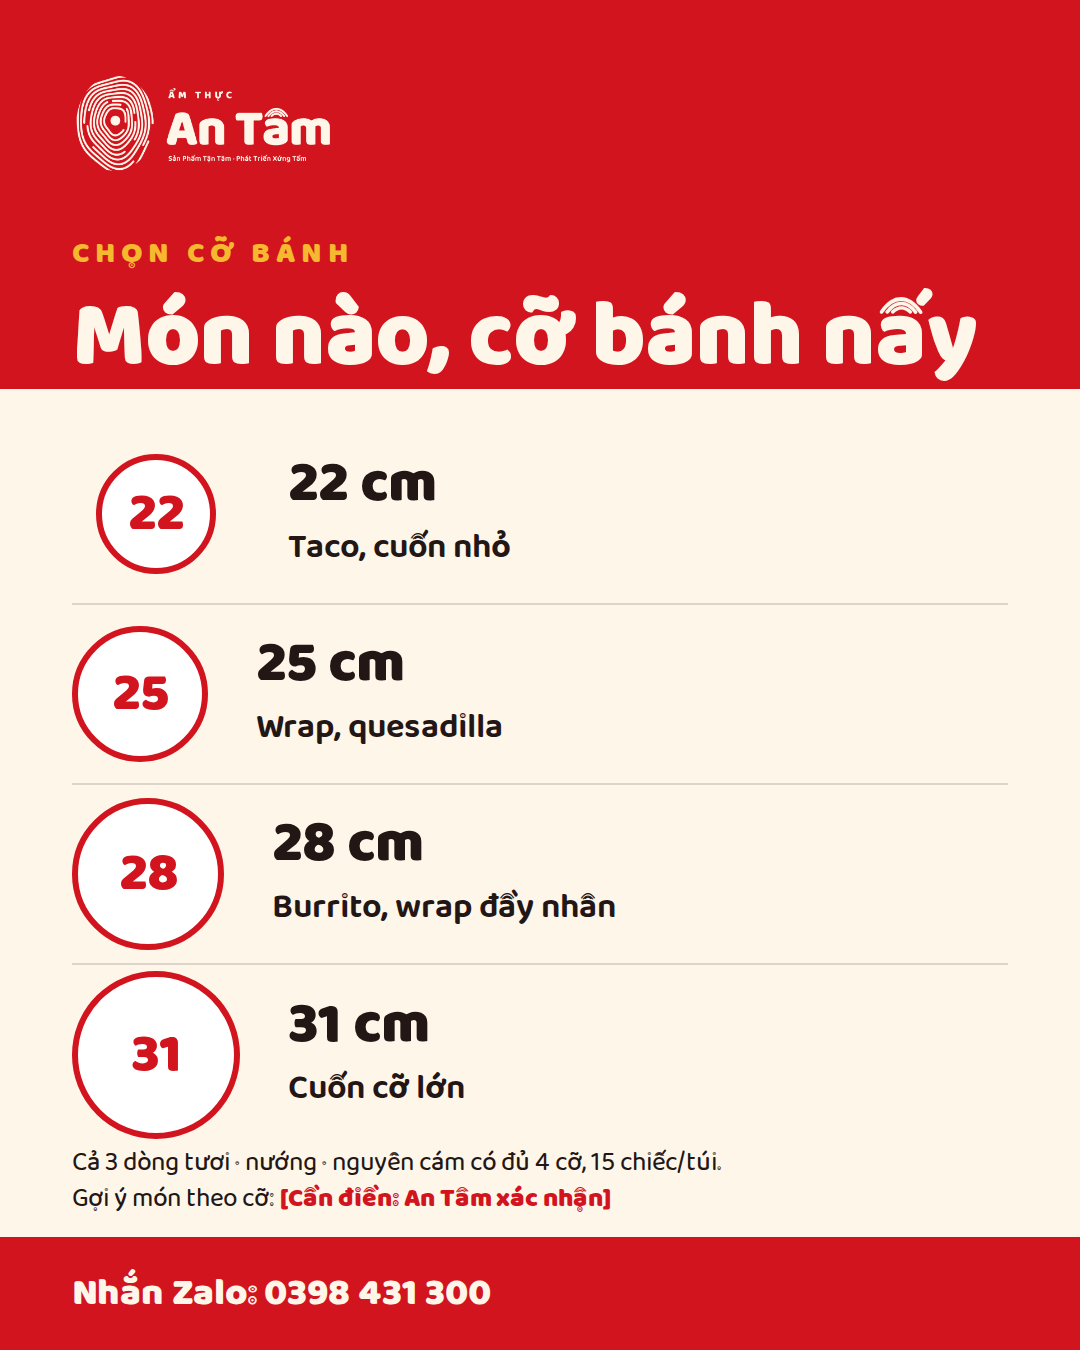
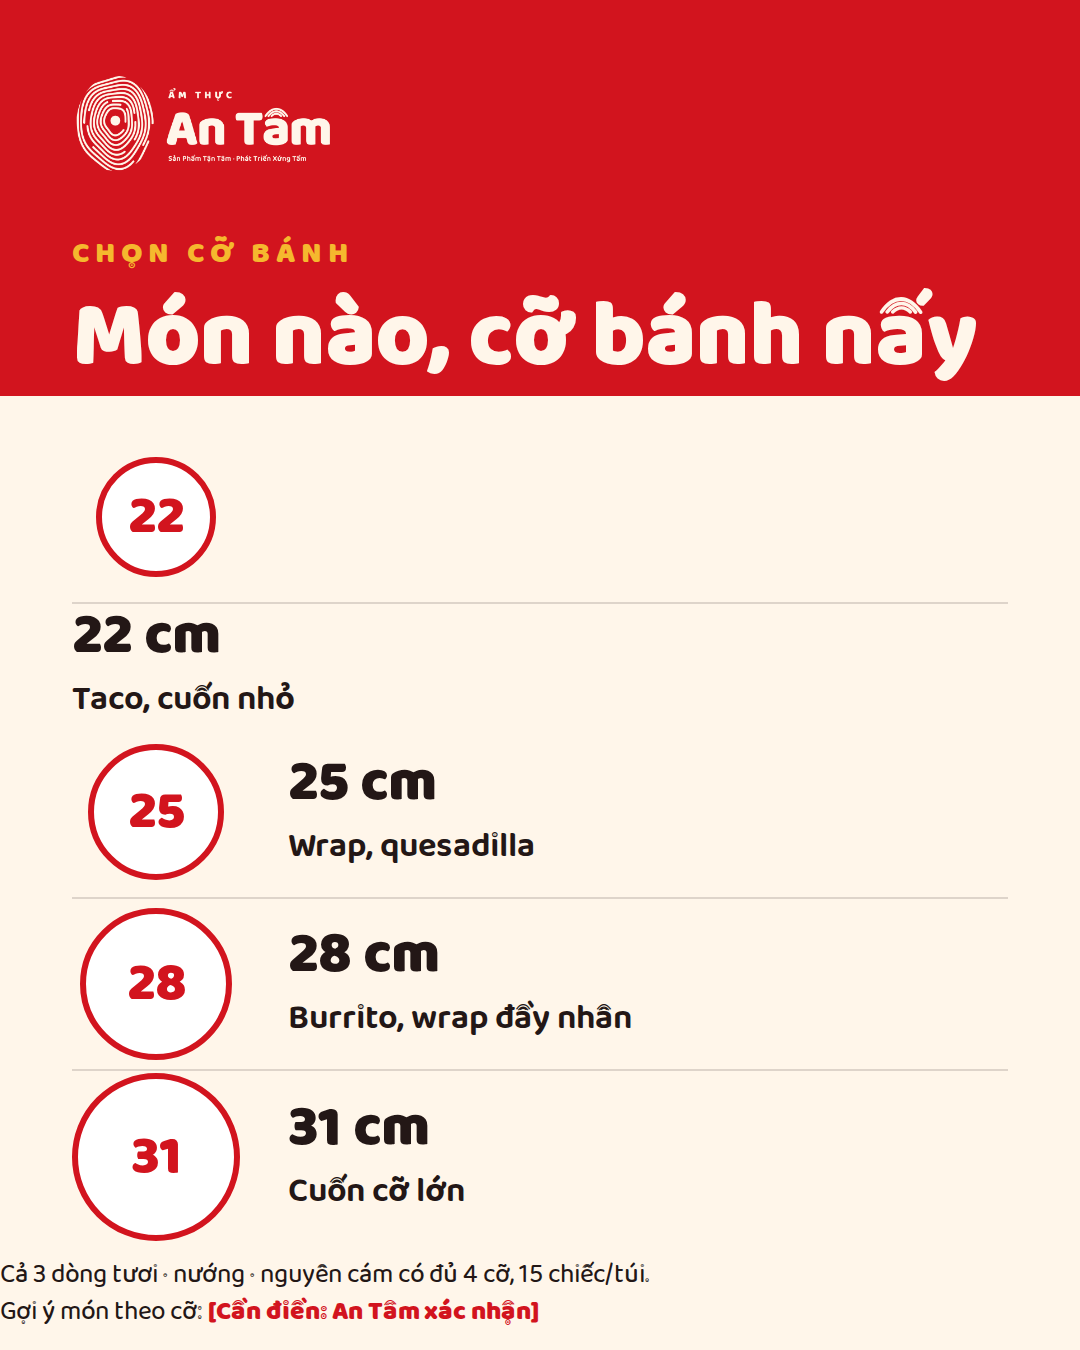
Marketing: An Tâm bản 2 — lưu tạm thiết kế
Claude-Session: https://claude.ai/code/session_01Kq3X1y8geurvq5mnJxo66X

Changed region(s): [[0.0, 0.28, 1.0, 1.0], [0.275, 0.3422, 0.4889, 0.4356]]

diff --git a/marketing/2026-10-03-ke-hoach-1-tuan-10-bai-banh-tortillas/mau/b-chon-co-banh.html b/marketing/2026-10-03-ke-hoach-1-tuan-10-bai-banh-tortillas/mau/b-chon-co-banh.html
@@ -5,7 +5,7 @@
 .hd .nhan{color:var(--vang);margin-top:64px}
 .hd .h1{font-size:92px;margin-top:14px}
 .bd{flex:1;padding:36px 72px 0;display:flex;flex-direction:column;justify-content:space-between}
-.row{display:flex;align-items:center;gap:48px;height:180px;border-bottom:2px solid rgba(35,23,22,.15)}
+.row{display:flex;align-items:center;gap:48px;height:168px;border-bottom:2px solid rgba(35,23,22,.15)}
 .row:last-of-type{border-bottom:0}
 .rows{display:flex;flex-direction:column}
 .cir{flex:none;border-radius:50%;background:#fff;border:6px solid var(--do);color:var(--do);font-weight:800;font-size:54px;display:flex;align-items:center;justify-content:center;margin-left:0}
@@ -13,13 +13,13 @@
 .colc{width:168px;display:flex;justify-content:center;flex:none}
 .cm{font-weight:800;font-size:58px;line-height:1.1}
 .mon{font-weight:600;font-size:34px;margin-top:4px}
-.note{font-weight:400;font-size:26px;line-height:1.4;padding-bottom:20px}
+.note{padding-top:14px;font-weight:400;font-size:26px;line-height:1.4;padding-bottom:20px}
 .ft{background:var(--do);height:130px;padding:0 72px;display:flex;align-items:center;justify-content:space-between;color:var(--kem);font-weight:800;font-size:38px}
 .ft .logo{height:70px;width:auto}
 </style></head><body>
 <div class="slide" id="s">
 <div class="hd"><img class="logo" src="../nhan-dien/logo/logo-ngang-kem.png" alt="Ẩm Thực An Tâm"><div class="nhan">Chọn cỡ bánh</div><div class="h1">Món nào, cỡ bánh nấy</div></div>
-<div class="bd"><div class="rows"><div class="row"><div class="colc"><div class="cir" style="width:120px;height:120px">22</div></div><div class="tx"><div class="cm">22 cm</div><div class="mon">Taco, cuốn nhỏ</div></div></div><div class="row"><div class="cir" style="width:136px;height:136px">25</div><div class="tx"><div class="cm">25 cm</div><div class="mon">Wrap, quesadilla</div></div></div><div class="row"><div class="cir" style="width:152px;height:152px">28</div><div class="tx"><div class="cm">28 cm</div><div class="mon">Burrito, wrap đầy nhân</div></div></div><div class="row"><div class="cir" style="width:168px;height:168px">31</div><div class="tx"><div class="cm">31 cm</div><div class="mon">Cuốn cỡ lớn</div></div></div></div>
+<div class="bd"><div class="rows"><div class="row"><div class="colc"><div class="cir" style="width:120px;height:120px">22</div></div><div class="tx"><div class="cm">22 cm</div><div class="mon">Taco, cuốn nhỏ</div></div></div><div class="row"><div class="colc"><div class="cir" style="width:136px;height:136px">25</div></div><div class="tx"><div class="cm">25 cm</div><div class="mon">Wrap, quesadilla</div></div></div><div class="row"><div class="colc"><div class="cir" style="width:152px;height:152px">28</div></div><div class="tx"><div class="cm">28 cm</div><div class="mon">Burrito, wrap đầy nhân</div></div></div><div class="row"><div class="colc"><div class="cir" style="width:168px;height:168px">31</div></div><div class="tx"><div class="cm">31 cm</div><div class="mon">Cuốn cỡ lớn</div></div></div></div>
 <div class="note">Cả 3 dòng tươi · nướng · nguyên cám có đủ 4 cỡ, 15 chiếc/túi.<br>Gợi ý món theo cỡ: <span class="cd">[Cần điền: An Tâm xác nhận]</span></div></div>
 <div class="ft"><span>Nhắn Zalo: 0398 431 300</span></div>
 </div></body></html>

diff --git a/marketing/2026-10-03-ke-hoach-1-tuan-10-bai-banh-tortillas/mau/d-the-cong-thuc.html b/marketing/2026-10-03-ke-hoach-1-tuan-10-bai-banh-tortillas/mau/d-the-cong-thuc.html
@@ -3,7 +3,7 @@
 .hd{background:var(--do);padding:72px 72px 0;height:330px;color:var(--kem)}
 .hd .nhan{color:var(--vang)}
 .hd .h1{font-size:104px;margin-top:16px}
-.anh{margin:48px 72px 0;height:400px;flex:none}
+.anh{margin:40px 72px 0;height:330px;flex:none}
 .sts{padding:44px 72px 0;display:flex;flex-direction:column;gap:26px}
 .st{display:flex;align-items:center;gap:30px}
 .n{flex:none;width:76px;height:76px;border-radius:50%;background:var(--do);color:var(--kem);font-weight:800;font-size:44px;display:flex;align-items:center;justify-content:center}
@@ -17,6 +17,6 @@
 <div class="hd"><div class="nhan">Công thức nấu ở nhà</div><div class="h1">Wrap gà 10 phút</div></div>
 <div class="anh"><svg viewBox="0 0 240 120" aria-hidden="true"><g fill="#FFF6EA" stroke="#D2141E" stroke-width="3" stroke-opacity=".45"><ellipse cx="120" cy="92" rx="100" ry="22"/><ellipse cx="120" cy="76" rx="100" ry="22"/><ellipse cx="120" cy="60" rx="100" ry="22"/><ellipse cx="120" cy="44" rx="100" ry="22"/></g></svg><div class="t"><b>Ảnh thật:</b> wrap gà cắt đôi, nền gỗ hoặc giấy kraft, ánh sáng ấm</div></div>
 <div class="sts"><div class="st"><div class="n">1</div><div class="s">Hâm bánh trên chảo khô cho mềm</div></div><div class="st"><div class="n">2</div><div class="s">Xếp rau, gà xé và sốt lên bánh</div></div><div class="st"><div class="n">3</div><div class="s">Cuộn chặt, cắt đôi, dùng ngay</div></div></div>
-<div class="nl">Nguyên liệu: bánh tortilla, gà xé, rau, sốt <span class="cd">[Cần điền: định lượng theo bài viết]</span></div>
+<div class="nl">Nguyên liệu: bánh tortilla, gà xé, rau, sốt<br><span class="cd">[Cần điền: định lượng theo bài viết]</span></div>
 <div class="ft"><img class="logo" src="../nhan-dien/logo/logo-ngang-do.png" alt="Ẩm Thực An Tâm"><span>Lưu bài để nấu cuối tuần<br>antamfoods.com</span></div>
 </div></body></html>
